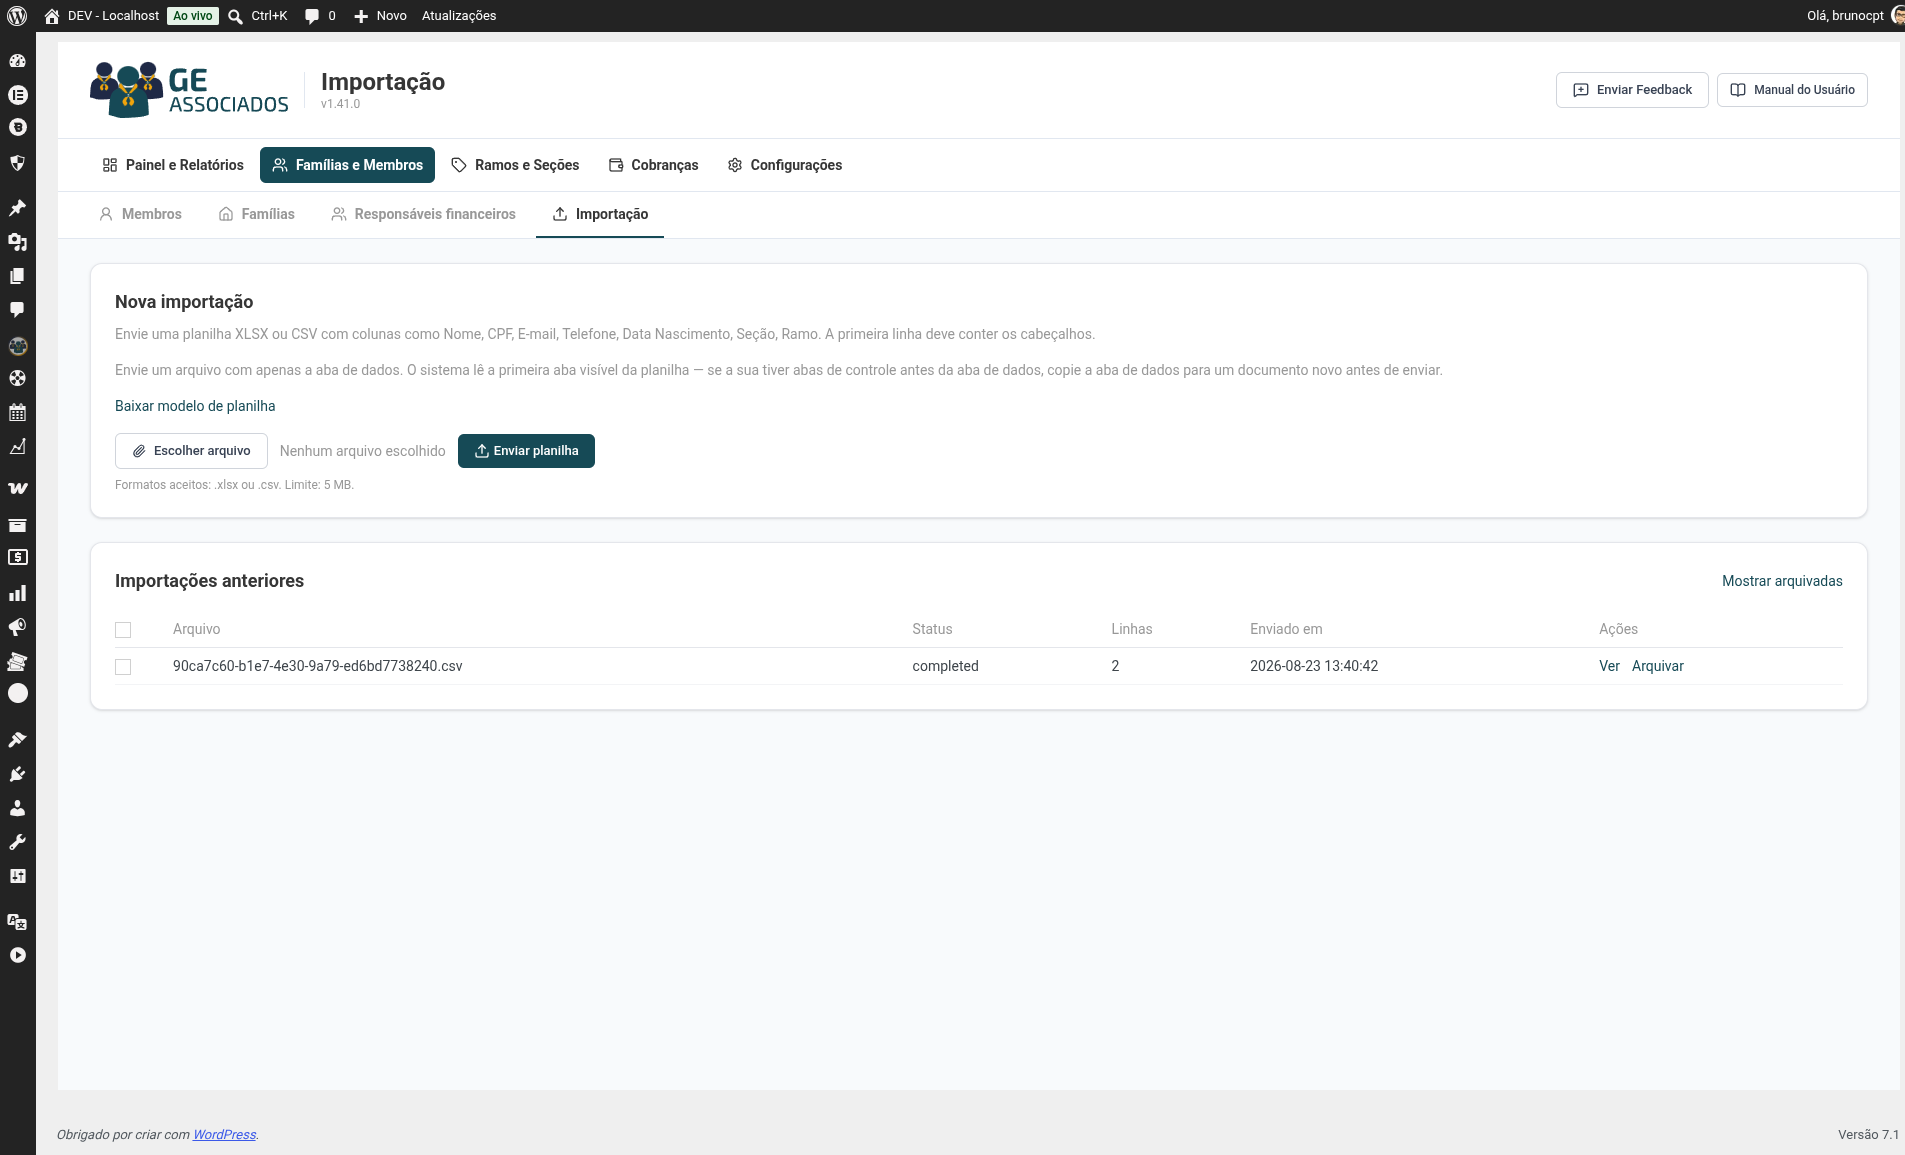
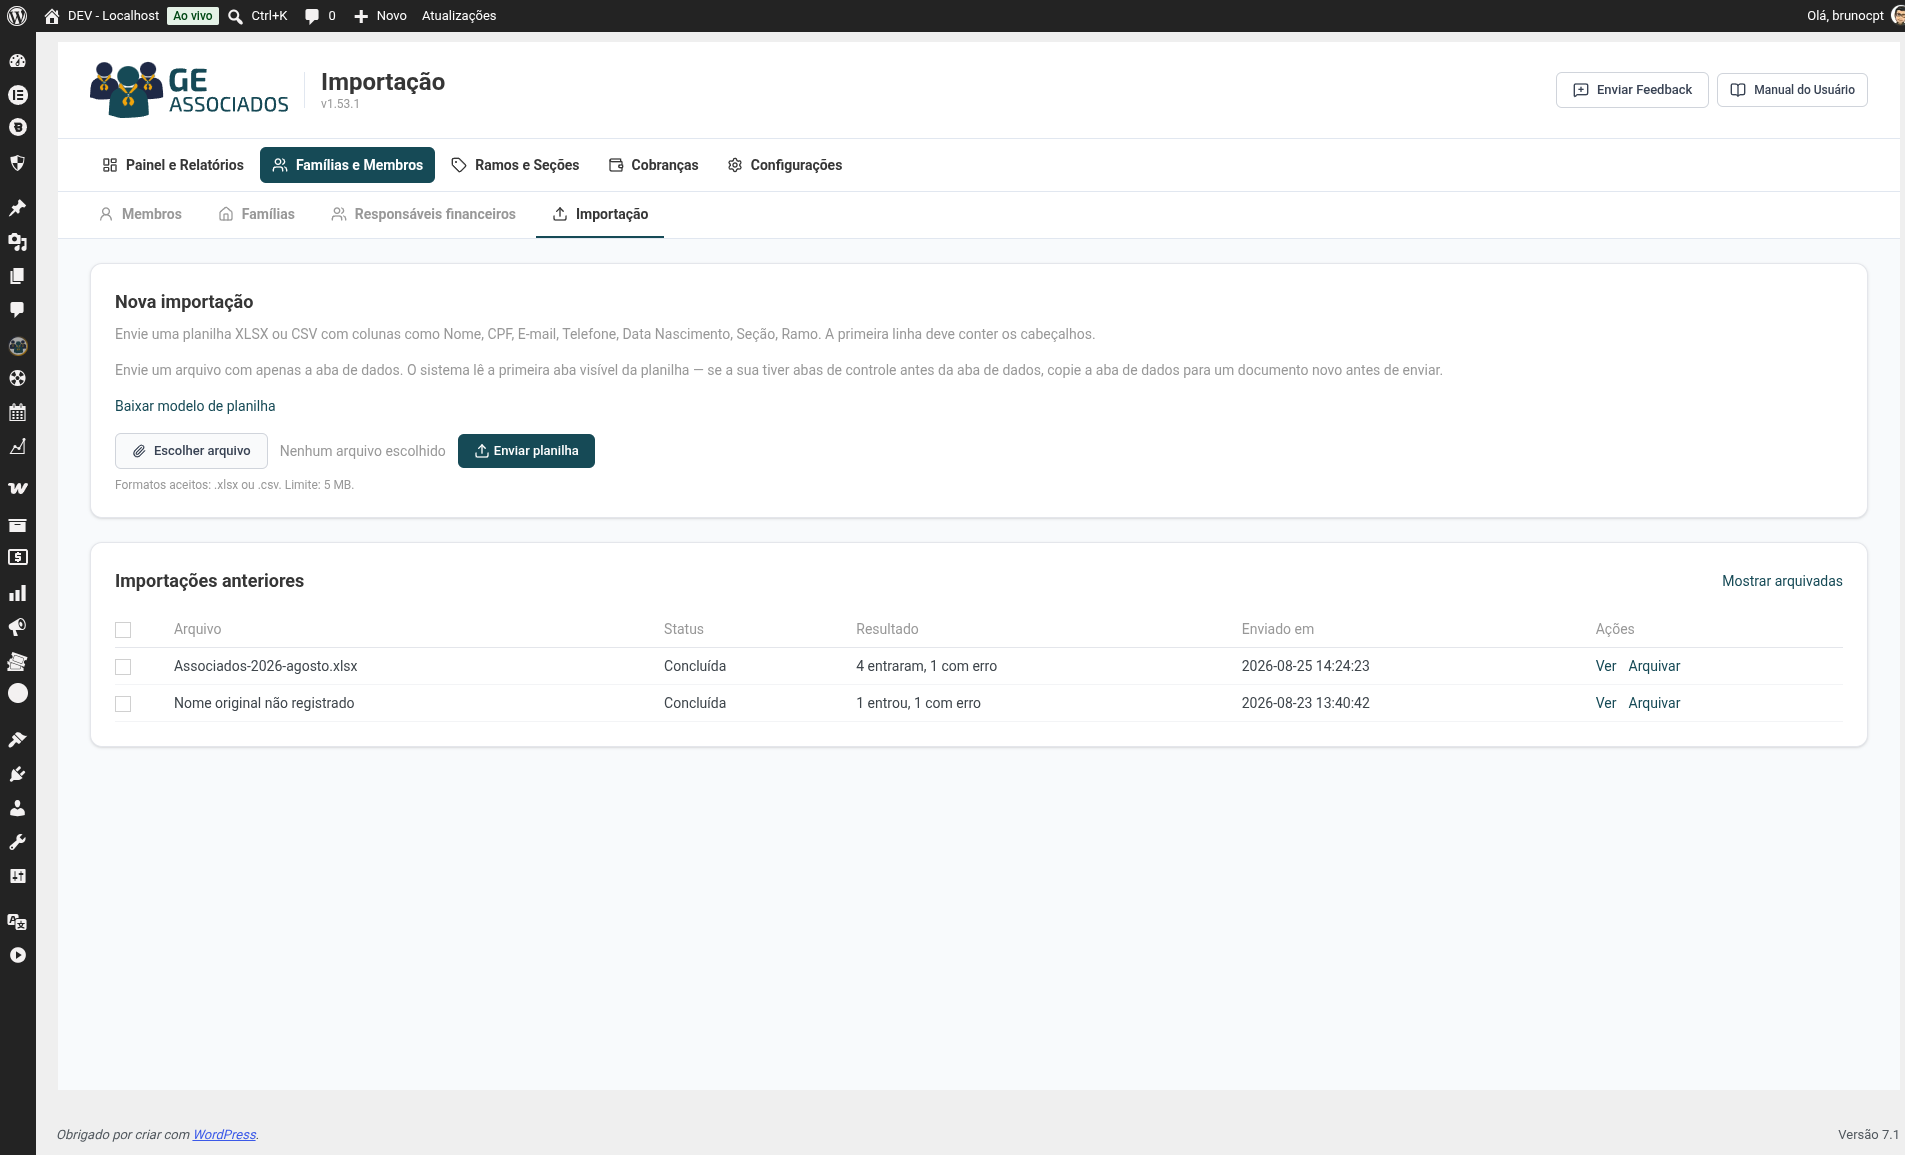
docs(manual): histórico de importações e onde baixar o CSV de erros
A lista passou a mostrar o nome do arquivo enviado e o resultado de cada
importação, e o "Ver" abre o relatório. O manual dizia só que "os erros saem
em CSV", sem dizer onde.

O ponto que passa a estar escrito: o relatório de uma importação passada
continua disponível — dá para voltar dias depois, baixar a lista de erros,
corrigir a planilha e reimportar só o que faltou, sem refazer tudo.

Capturas da lista e do relatório, na v1.53.1.

diff --git a/passo-a-passo/importar-dados.md b/passo-a-passo/importar-dados.md
@@ -113,8 +113,11 @@ ajustados manualmente dentro do plugin.
   aba lida não é a de dados. Não processe: confira a ordem e a visibilidade das abas do
   arquivo, ou copie a aba de dados para um documento novo (veja a dica acima) e reenvie.
 - **Algumas linhas deram erro** — a importação é parcial: as linhas sem erro são
-  processadas normalmente, e a lista de erros sai em um arquivo CSV para você corrigir e
-  reimportar só o que faltou.
+  processadas normalmente. Volte à aba **Importação**, localize a importação na lista,
+  clique em **Ver** e depois em **Baixar erros (CSV)** — o arquivo traz a linha, a
+  mensagem do erro e os valores originais daquela linha, para corrigir na planilha e
+  reimportar só o que faltou. Não precisa fazer isso na hora: o relatório continua
+  disponível para consultar quando quiser, mesmo dias depois.
 - **Coluna obrigatória sem mapear** — o sistema tenta adivinhar pelo nome da coluna na
   planilha, mas nem sempre acerta; confira o mapeamento antes de processar, especialmente
   se a planilha usa nomes de coluna fora do padrão.
@@ -125,7 +128,27 @@ ajustados manualmente dentro do plugin.
 
 ## Depois de importar
 
-A lista de importações (na mesma tela) mostra o **status** de cada uma — **Concluída**,
-**Falhou** ou **Aguardando processamento** — e permite ver o resultado, arquivar e
-desarquivar, inclusive em lote, útil para manter só as importações recentes visíveis no
-dia a dia.
+A lista de importações (na mesma tela) mostra o **nome do arquivo como você enviou**, o
+**status** de cada uma — **Concluída**, **Falhou** ou **Aguardando processamento** — e uma
+coluna **Resultado**, por exemplo "269 entraram, 17 com erro". Importação ainda não
+processada mostra "—" em Resultado.
+
+{: .tip }
+**O relatório de uma importação passada continua disponível — você não precisa corrigir
+tudo na hora.** Importou 286 pessoas e viu 17 com erro? Pode voltar à lista mais tarde,
+mesmo dias depois, clicar em **Ver**, baixar o CSV de erros, corrigir só essas linhas na
+planilha original e reimportar apenas o que faltou — sem refazer a importação inteira.
+
+Clique em **Ver** para abrir o relatório de uma importação já processada: contagens,
+lista de erros linha a linha com o motivo, e o botão **Baixar erros (CSV)**.
+
+![Relatório de uma importação: contagens, o erro linha a linha com o motivo, e o botão para baixar os erros em CSV](/assets/img/importacao-relatorio.png)
+
+Numa importação enviada mas ainda não processada, **Ver** abre a pré-visualização de onde
+você parou. Se o arquivo original não estiver mais no servidor, a tela avisa em vez de levar a
+um link sem saída.
+
+A lista também permite arquivar e desarquivar, inclusive em lote — útil para manter só as
+importações recentes visíveis no dia a dia. Importações feitas antes desta mudança
+mostram "Nome original não registrado" no lugar do nome do arquivo — é esperado, não é
+erro.

diff --git a/modulos/importacao.md b/modulos/importacao.md
@@ -69,5 +69,14 @@ sozinhos pela importação — veja o passo a passo completo para o funcionament
   completo + data de nascimento**.
 - A importação é **parcial**: linha com erro não desfaz o que já foi processado. Os erros
   saem em CSV para correção.
-- A lista de importações mostra o **status** de cada uma (Concluída, Falhou, Aguardando
-  processamento) e permite ver, arquivar e desarquivar, inclusive em lote.
+- A lista de importações mostra o **nome do arquivo como você enviou** (importações
+  anteriores a esta mudança aparecem como "Nome original não registrado") e uma coluna
+  **Resultado**, com quantos registros entraram e quantos deram erro — por exemplo "269
+  entraram, 17 com erro". Importação ainda não processada mostra "—". O status
+  (Concluída, Falhou, Aguardando processamento) continua ali, e dá para ver, arquivar e
+  desarquivar, inclusive em lote.
+- **Ver** abre o relatório de uma importação já processada — contagens, lista de erros
+  linha a linha com o motivo, e o link para baixar o CSV de erros — a qualquer momento,
+  não só logo depois de importar. Numa importação enviada mas ainda não processada, Ver
+  abre a pré-visualização de onde você parou. Se o arquivo não estiver mais no servidor,
+  a tela explica em vez de levar a um caminho sem saída.

diff --git a/novidades.md b/novidades.md
@@ -8,6 +8,16 @@ nav_order: 11
 Um resumo, em linguagem simples, do que mudou nas versões mais recentes — o que interessa
 para quem usa o plugin no dia a dia, não o registro técnico completo.
 
+## A lista de importações mostra o nome do arquivo e quanto entrou
+
+A lista de importações passou a mostrar o **nome do arquivo como você enviou** e uma
+coluna **Resultado**, com quantos registros entraram e quantos deram erro. O botão **Ver**
+agora leva ao lugar certo: o relatório completo numa importação já processada, ou a
+pré-visualização numa que ainda está aguardando. E o CSV de erros pode ser baixado a
+qualquer momento — não só logo depois de importar —, então dá para corrigir a planilha
+com calma e reimportar só as linhas que faltaram. Veja
+[Importar dados de uma planilha](/passo-a-passo/importar-dados/).
+
 ## Ramo e seção que ainda não existem se resolvem na hora, na importação
 
 Antes, importar uma planilha exigia que os ramos e seções já estivessem cadastrados com o
